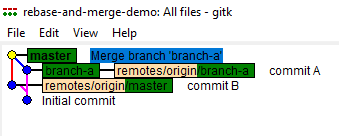
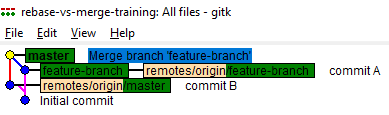
Rename to branch "feature-branch" in exercise

diff --git a/slides/cwiczenia.html b/slides/cwiczenia.html
@@ -128,7 +128,9 @@ Komendy potrzebne do ćwiczenia (niekoniecznie w tej kolejności)
         <code>
             cd ~/Desktop/cwiczenia<br/>
             git clone https://github.com/git-devwarsztaty/rebase-vs-merge-training rebase-and-merge-demo<br/>
-			git checkout branch-a
+			cd rebase-and-merge-demo<br/>
+			git checkout feature-branch (tylko żeby ten branch się pojawił lokalnie)<br/>
+			git checkout master
         </code>
     </li>
     <p>
